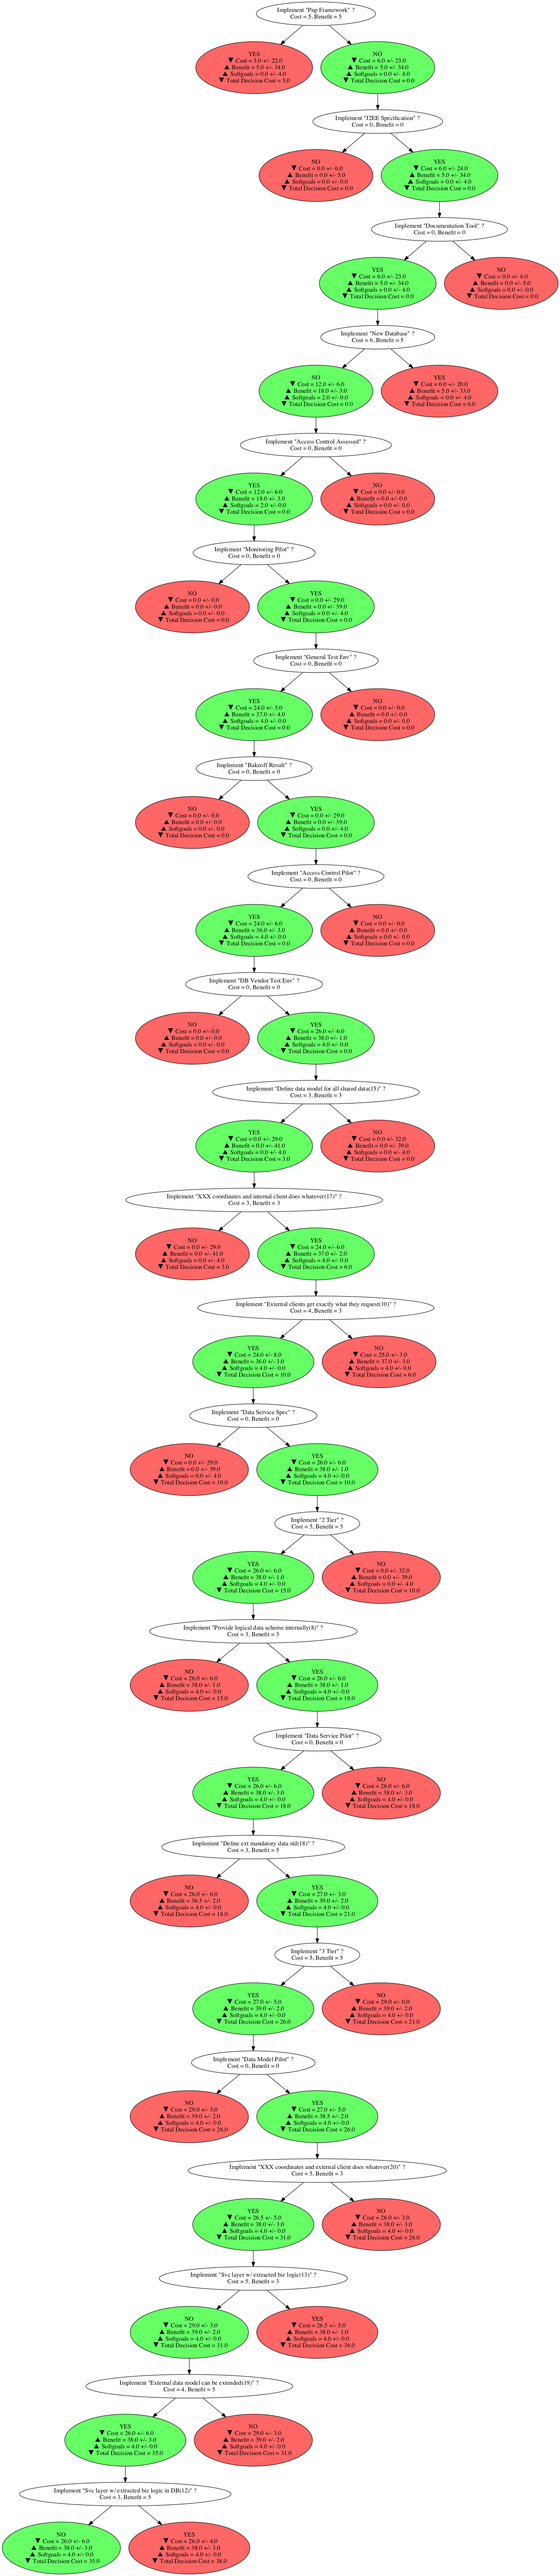
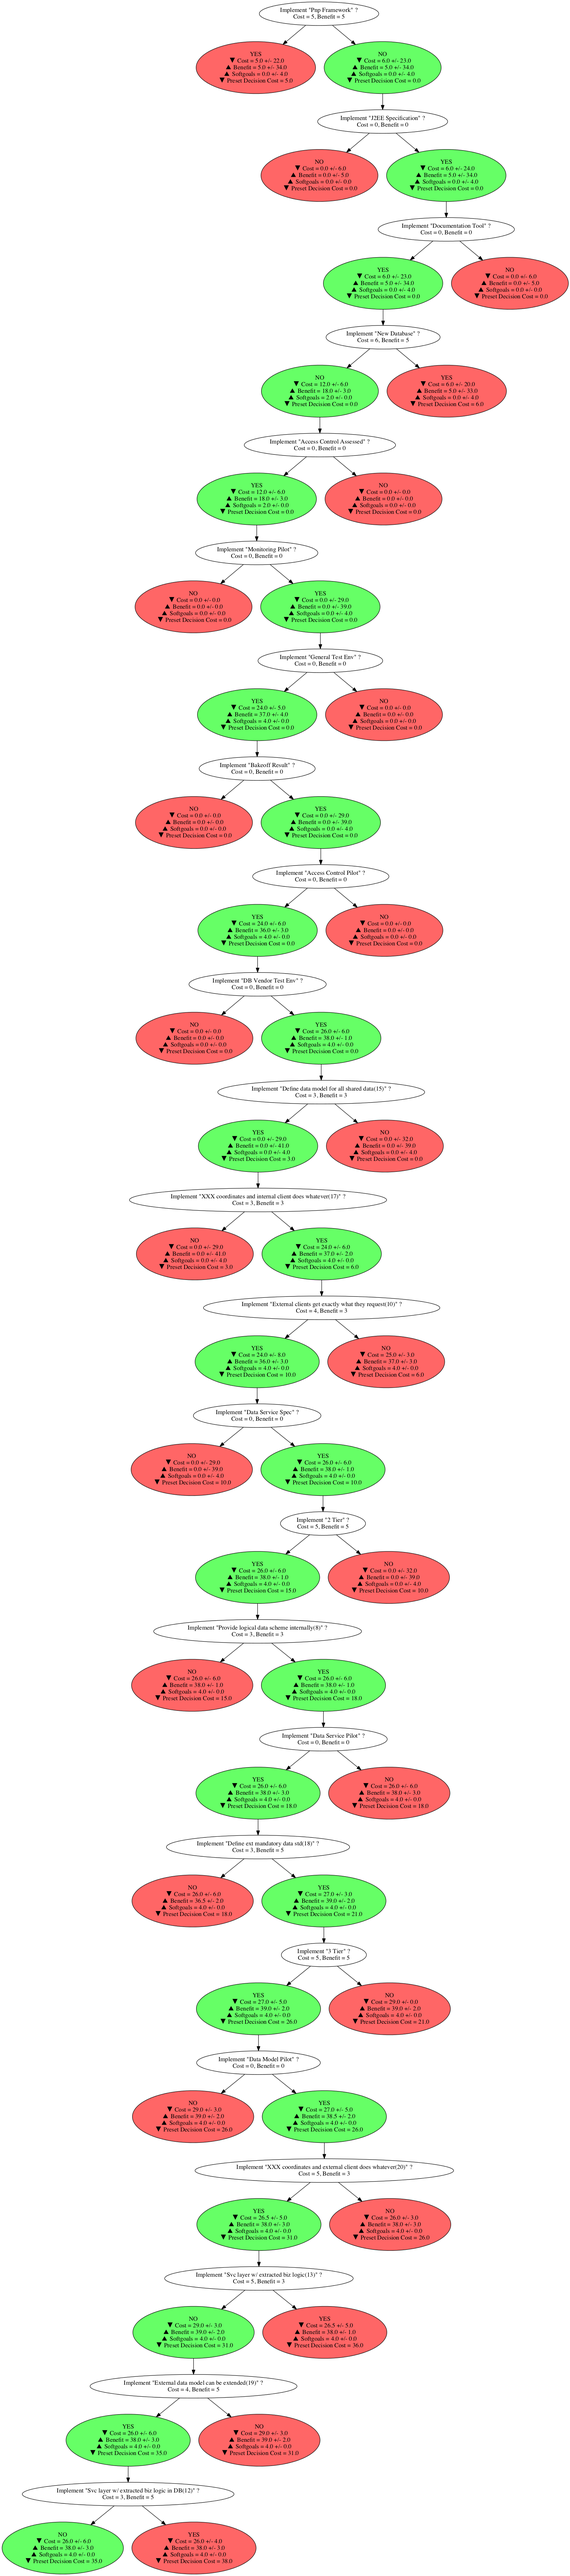
Changed graph name

diff --git a/src/pyAHP/dotter.py b/src/pyAHP/dotter.py
@@ -106,14 +106,14 @@ class Recommender(O):
      if track.prefered_value == -1:
        left_color, right_color = right_color, left_color
      left_label = "YES\n %s Cost = %0.1f +/- %0.1f\n %s Benefit = %0.1f +/- %0.1f \n" \
-                  "%s Softgoals = %0.1f +/- %0.1f\n %s Total Decision Cost = %0.1f \n"\
+                  "%s Softgoals = %0.1f +/- %0.1f\n %s Preset Decision Cost = %0.1f \n"\
                   %(down, track.pos_meds[0], track.pos_iqrs[0],
                     up, track.pos_meds[1], track.pos_iqrs[1],
                     up, track.pos_meds[2], track.pos_iqrs[2],
                     down, track.pos_meds[3],)
      left = dot.Node(name = "Yes %d"%track.id, label = left_label, style="filled", fillcolor=left_color)
      right_label = "NO\n %s Cost = %0.1f +/- %0.1f\n %s Benefit = %0.1f +/- %0.1f \n" \
-                  "%s Softgoals = %0.1f +/- %0.1f\n %s Total Decision Cost = %0.1f\n"\
+                  "%s Softgoals = %0.1f +/- %0.1f\n %s Preset Decision Cost = %0.1f\n"\
                   %(down, track.neg_meds[0], track.neg_iqrs[0],
                     up, track.neg_meds[1], track.neg_iqrs[1],
                     up, track.neg_meds[2], track.neg_iqrs[2],

diff --git a/src/pyAHP/star1.py b/src/pyAHP/star1.py
@@ -171,7 +171,7 @@ class Star1(O):
 
   def report(self, stats, sub_folder):
     #headers = [obj.__name__.split("_")[-1] for obj in self.de.settings.obj_funcs]
-    headers = ["root cost", "root benefit", "softgoals", "decisions cost"]
+    headers = ["root cost", "root benefit", "softgoals", "preset decisions cost"]
     med_spread_plot(stats, headers, fig_name="img/"+sub_folder+"/"+self.model.get_tree().name+".png")
 
   def to_csv(self, stats, fname):
